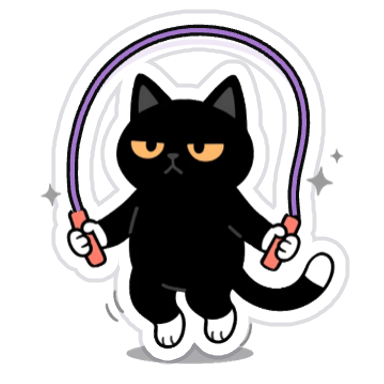
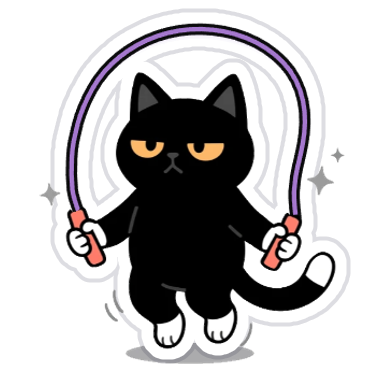
Mito: the skipping-rope sticker swishes instead of flickering
Two faint rope copies spread over a whole frame's turn read as three ropes
flashing on and off. The trail now fills that angle with six close, fading
copies, and the sticker is exported at 30 fps (two refreshes a frame on a
60 Hz screen) instead of 25. Frame rates can differ per sticker
(frames/<id>/fps.txt) and the WebP delays add up to the exact loop.

diff --git a/design/mito/animation.html b/design/mito/animation.html
@@ -1168,8 +1168,8 @@
   const NHAYDAY = (() => {
     const VIEW = { x: 48, y: -12, w: 600, h: 590 }, LOOP = 2.4
     // Three skips a loop, one straight after the other: a quick bounce off the ground (squash on touching, stretch on
-    // leaving) and a smooth arc through the air, the rope turning once a skip at an even speed, 20 frames a turn,
-    // with a faint trail so it reads as a swish rather than a flicker. The rope goes over the head (the drawing),
+    // leaving) and a smooth arc through the air, the rope turning once a skip at an even speed, 24 frames a turn
+    // (exported at 30 fps), with a soft trail so it reads as a swish rather than a flicker. The rope goes over the head (the drawing),
     // down in front, under the feet while the cat is up, and back up behind; it is drawn inside the sticker's edge,
     // just behind or in front of the cat, as in the drawing. The hands give a little on each landing, the tail lags
     // behind the jump, the shadow shrinks as the cat rises.
@@ -1218,8 +1218,11 @@
       }
       ctx.restore()
     }
-    // The rope and its trail, each drawn on the side of the cat it is on (in front while it comes down).
-    const TRAIL = [[0.34, 0.16], [0.17, 0.32]]
+    // The rope and its trail, each drawn on the side of the cat it is on (in front while it comes down). The trail
+    // fills the angle the rope turns between two frames (2π / 24) with close, fading copies: one continuous swish.
+    // Two copies spread over that angle read as three separate ropes flashing on and off.
+    const STEP = (2 * Math.PI) / 24, TRAIL_N = 6
+    const TRAIL = Array.from({ length: TRAIL_N }, (_, i) => [(STEP * (i + 1)) / TRAIL_N, 0.3 * (1 - (i + 1) / (TRAIL_N + 1))]).reverse()
     function ropes(ctx, t, front) {
       const th = 2 * Math.PI * phase(t)
       for (const [back, alpha] of TRAIL) if (Math.sin(th - back) > 1e-6 === front) rope(ctx, t, th - back, alpha)

diff --git a/tests/mito.test.ts b/tests/mito.test.ts
@@ -35,8 +35,9 @@ describe('Mito sticker pack', () => {
       if (s.loop) {
         const anim = await sharp(join(dir, `${s.id}.webp`), { animated: true }).metadata()
         expect(anim.width).toBe(384)
-        // one loop at 25 fps
-        expect(anim.pages).toBe(Math.round((s.loop / 1000) * 25))
+        // exactly one loop (25 fps, or 30 for the fast ones), so hover play stops on a loop boundary
+        expect(anim.delay?.reduce((a, b) => a + b, 0)).toBe(s.loop)
+        expect([Math.round((s.loop / 1000) * 25), Math.round((s.loop / 1000) * 30)]).toContain(anim.pages)
       }
     }
   })
